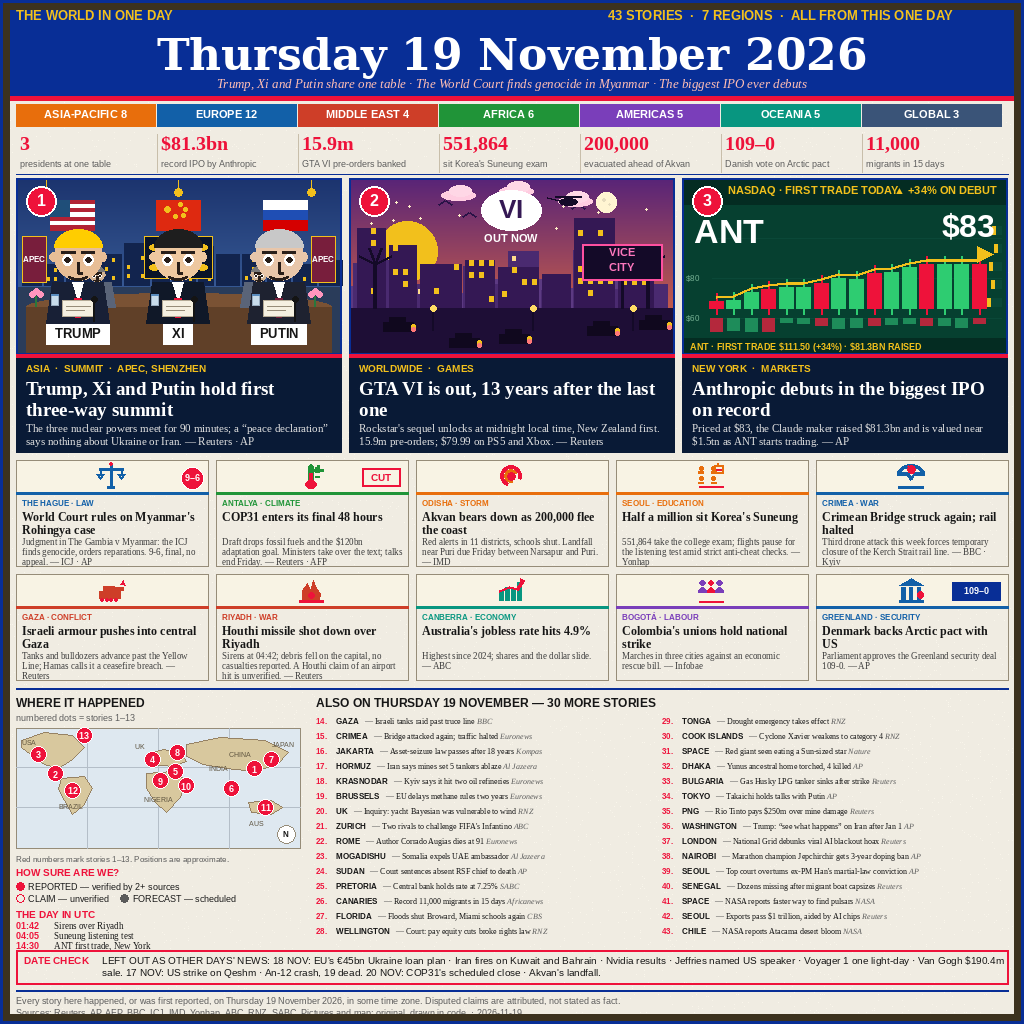
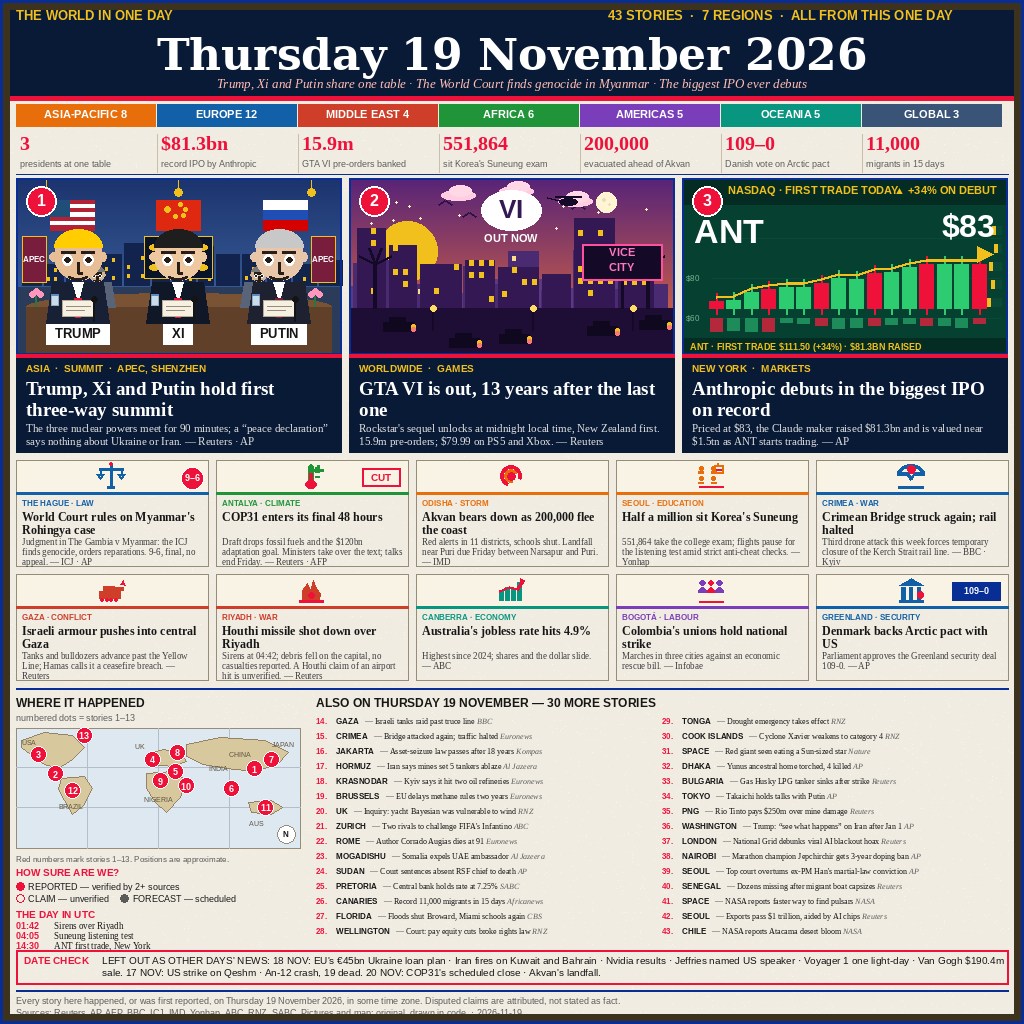
news-image-20261119 v5 fix 6: masthead NAVY -> DARKBAND, uniform with hero bands (NOT submitted)

Changed region(s): [[0.0, 0.0, 1.0, 0.0938]]

diff --git a/build_entry.py b/build_entry.py
@@ -758,7 +758,10 @@ def build():
     M = 16  # margin
 
     # ---- masthead ------------------------------------------------------
-    d.rectangle([0, 0, W, 96], fill=NAVY)
+    # user order: the top background now uses DARKBAND, the same dark
+    # navy as the headline bands under the heroes, so the page's big
+    # dark areas are uniform (it was NAVY royal blue before)
+    d.rectangle([0, 0, W, 96], fill=DARKBAND)
     d.text((M, 8), "THE WORLD IN ONE DAY", font=font(SANS_B, 13), fill=GOLD)
     d.text((W - M - 400, 8), "43 STORIES  \u00b7  7 REGIONS  \u00b7  ALL FROM THIS ONE DAY",
            font=font(SANS_B, 13), fill=GOLD)
